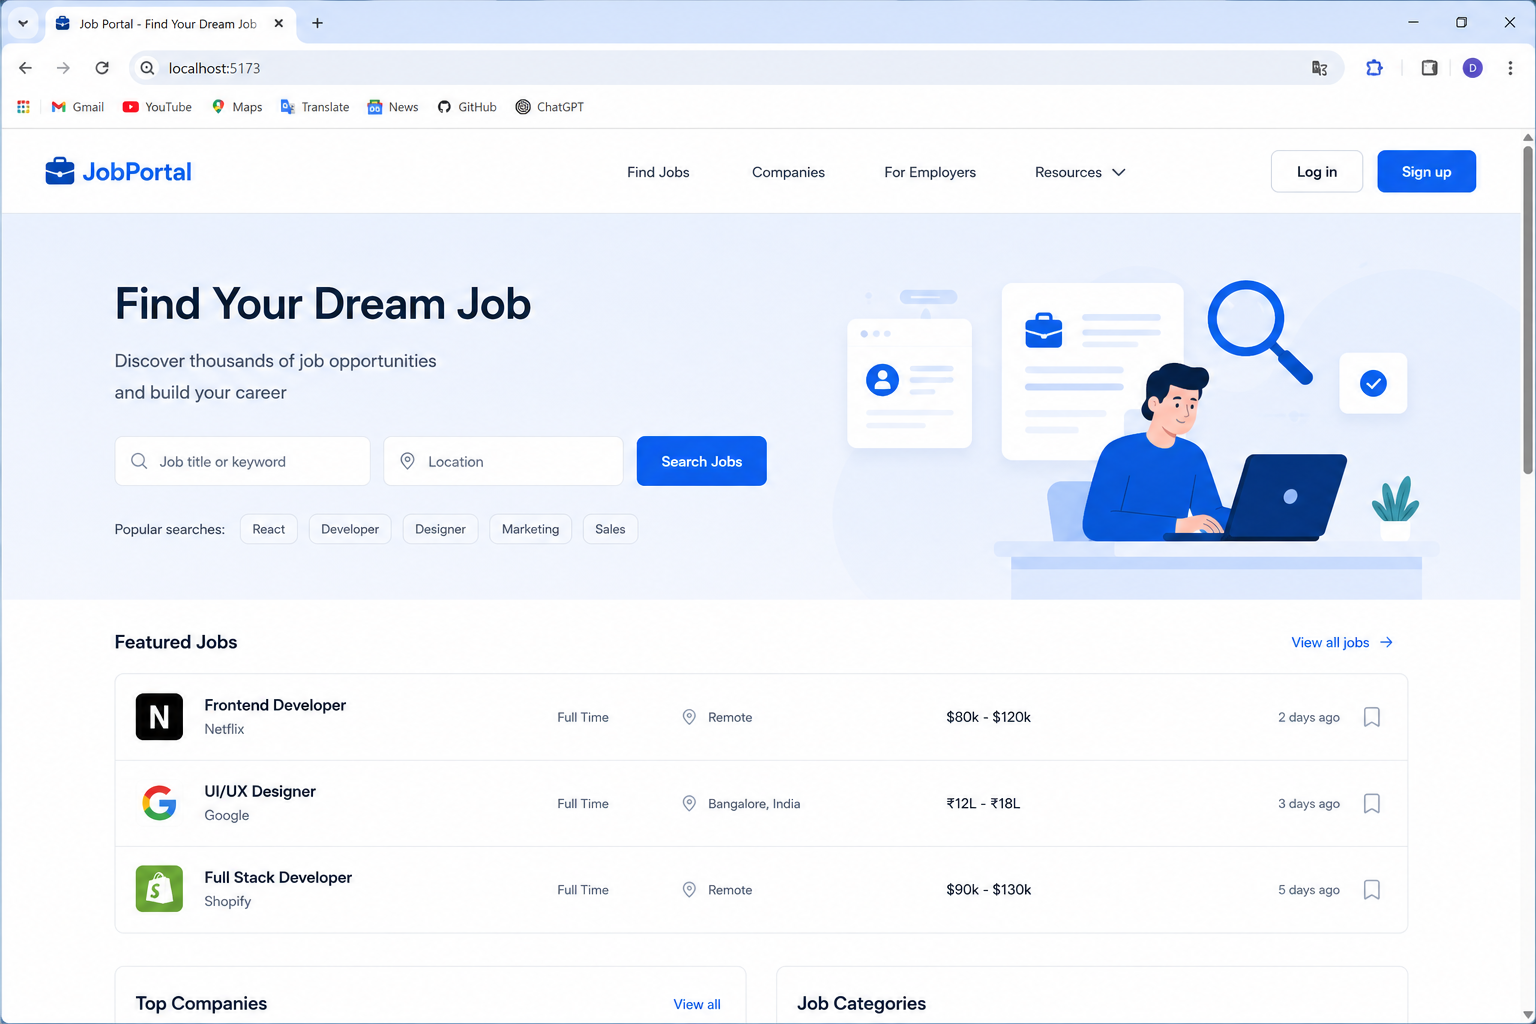
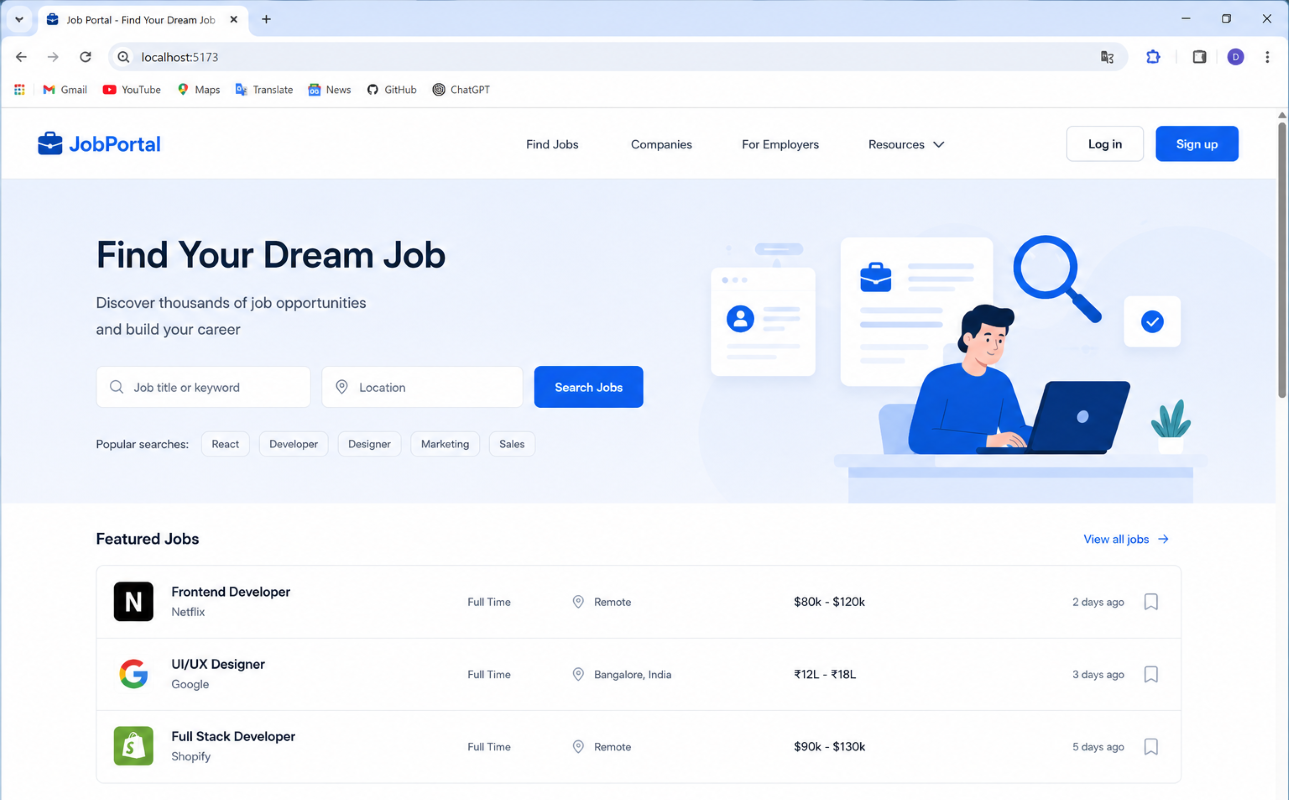
fix

diff --git a/src/components/Projects.jsx b/src/components/Projects.jsx
@@ -65,12 +65,12 @@ export default function Projects() {
                         }
                       </span>
                     </div>
-                    <div className="relative overflow-hidden aspect-[16/9]">
+                    <div className="relative overflow-hidden">
                       <img
                         src={p.image}
                         alt={p.title}
                         loading="lazy"
-                        className="w-full h-full object-cover object-top group-hover:scale-105 transition-transform duration-500"
+                        className="w-full h-full object-cover  object-center group-hover:scale-105 transition-transform duration-500"
                       />
                       <div className="absolute inset-0 opacity-0 group-hover:opacity-100 bg-gradient-to-tr from-transparent via-white/10 to-transparent transition-opacity duration-500" />
                     </div>
